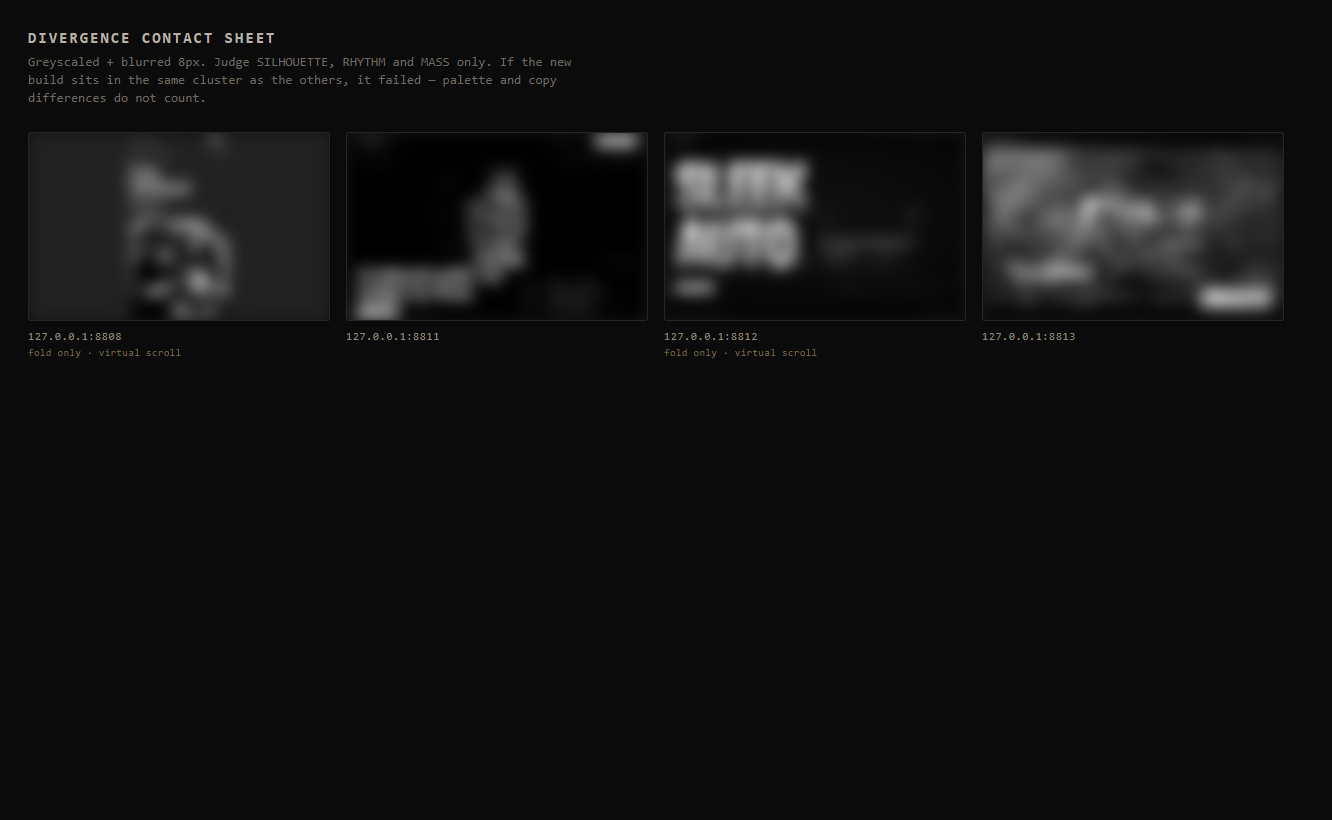
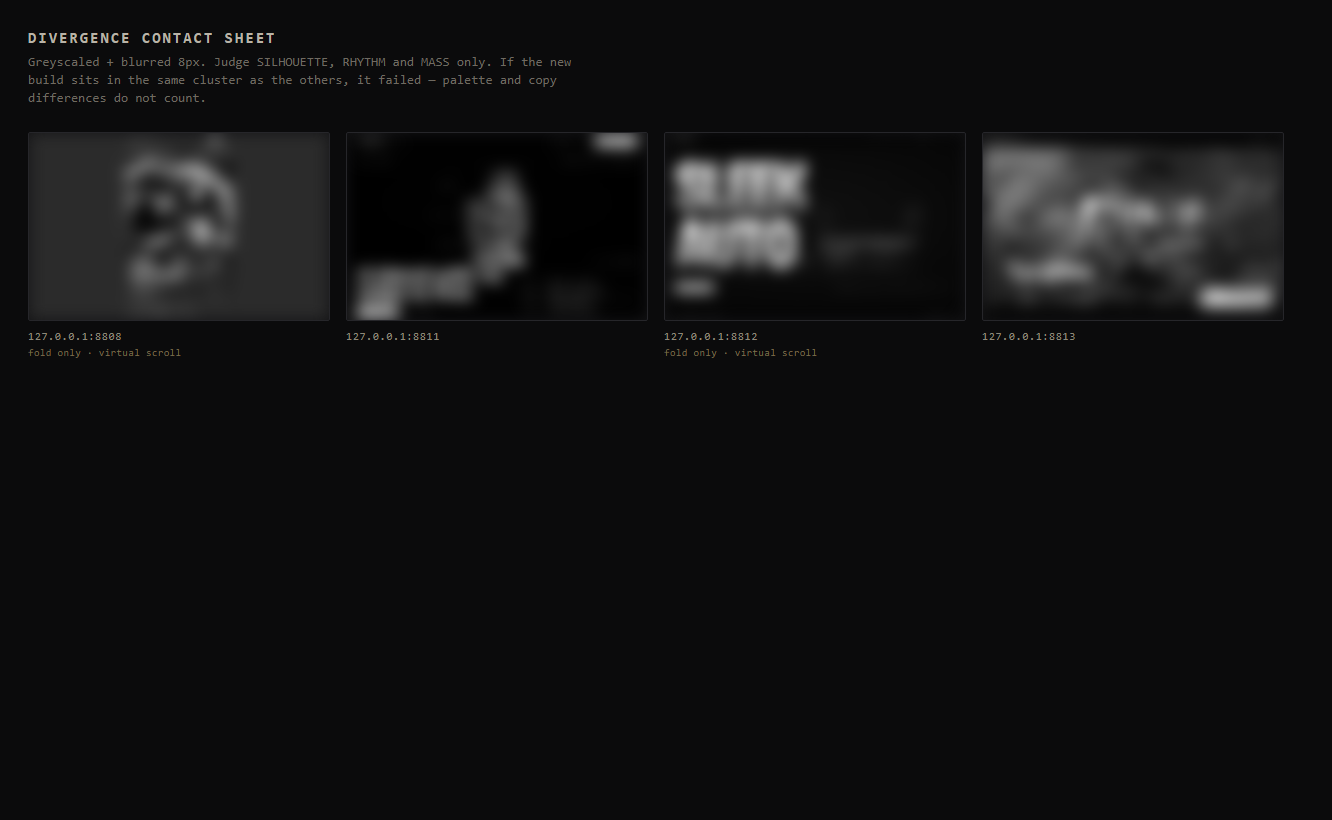
feat: full-bleed cover (name on the photo), tools section, ticker + 'confirmed clients' removed, cover paint fix
Claude-Session: https://claude.ai/code/session_017YWDE5JXoPXS3XVLwA3b7K

Changed region(s): [[0.0923, 0.1829, 0.1847, 0.3963]]

diff --git a/index.html b/index.html
@@ -51,19 +51,17 @@ a{color:inherit}
 /* ============ 1 · the name ============ */
 .hero{padding:22px 22px 0}
 .hero .k{display:flex;justify-content:space-between;padding-bottom:16px;border-bottom:1px solid var(--hair)}
-.name{margin-top:22px;font-weight:300;font-size:clamp(48px,14.5vw,66px);line-height:.98;letter-spacing:-.035em;font-variation-settings:"opsz" 96,"wdth" 90;text-wrap:balance}
+/* the cover — Study A's skeleton in the v2 register: the name sits ON the photo, light weight, cream */
+.cover{margin:14px -22px 0;position:relative;aspect-ratio:3/4;overflow:hidden;background:var(--carbon)}
+.cover img{position:absolute;inset:0;z-index:0;width:100%;height:100%;object-fit:cover;object-position:60% 30%;filter:contrast(1.06) saturate(.88) brightness(.9)}
+.cover:before{content:'';position:absolute;inset:0;z-index:1;pointer-events:none;background:linear-gradient(180deg,rgba(16,11,8,.28) 0%,rgba(16,11,8,0) 30%,rgba(16,11,8,.55) 62%,rgba(16,11,8,.96) 100%)}
+.lockup{position:absolute;left:22px;right:22px;bottom:44px;z-index:2}
+.name{font-weight:300;font-size:clamp(50px,15vw,68px);line-height:.96;letter-spacing:-.035em;font-variation-settings:"opsz" 96,"wdth" 90;text-wrap:balance;text-shadow:0 2px 24px rgba(10,7,5,.6)}
 .name span{display:block}
 .name span+span{font-weight:500;font-variation-settings:"opsz" 96,"wdth" 100}
-.quote{margin-top:14px;font-family:var(--serif);font-style:italic;font-weight:300;font-variation-settings:"opsz" 40;font-size:22px;line-height:1.3;max-width:22ch;text-wrap:balance}
-.plate{margin:18px 0 0;position:relative;aspect-ratio:4/5;border:1px solid var(--hair);overflow:hidden;background:var(--carbon);
-  box-shadow:0 18px 48px -18px rgba(0,0,0,.8)}
-.plate img{width:100%;height:100%;object-fit:cover;filter:contrast(1.06) saturate(.9) brightness(.94)}
-.plate:after{content:'';position:absolute;inset:0;pointer-events:none;background:radial-gradient(120% 95% at 50% 45%,transparent 55%,rgba(16,11,8,.85) 100%)}
-.plate .cap{position:absolute;left:12px;right:12px;bottom:12px;z-index:2;display:flex;justify-content:space-between}
-.stats{display:grid;grid-template-columns:repeat(3,auto);gap:0 28px;margin-top:24px;padding-top:18px;border-top:1px solid var(--hair)}
-.stat b{display:block;font-family:var(--mono);font-weight:500;font-size:20px;letter-spacing:-.01em;color:var(--cream);font-variant-numeric:tabular-nums}
-.stat i{display:block;margin-top:6px;font-style:normal;font-family:var(--mono);font-size:10px;letter-spacing:.14em;text-transform:uppercase;color:var(--smoke)}
-.actions{display:flex;gap:12px;align-items:center;padding:26px 0 8px}
+.quote{margin-top:12px;font-family:var(--serif);font-style:italic;font-weight:300;font-variation-settings:"opsz" 40;font-size:21px;line-height:1.3;max-width:20ch;text-wrap:balance;color:var(--cream)}
+.cover .cap{position:absolute;left:22px;right:22px;bottom:14px;z-index:2;display:flex;justify-content:space-between}
+.actions{display:flex;gap:12px;align-items:center;padding:18px 0 8px}
 .btn{position:relative;display:inline-flex;align-items:center;gap:12px;padding:15px 22px;border:1px solid var(--cream);border-radius:999px;color:var(--cream);text-decoration:none;font-family:var(--mono);font-weight:500;font-size:12px;letter-spacing:.12em;text-transform:uppercase;transition:background .3s var(--ease),color .3s var(--ease)}
 .btn:hover{background:var(--cream);color:var(--canvas)}
 .btn.ghost{border-color:var(--hair);color:var(--smoke)} .btn.ghost:hover{background:transparent;color:var(--cream);border-color:var(--cream)}
@@ -96,6 +94,16 @@ h2 em{font-style:normal;font-weight:500}
 .rail .num b{display:block;font-weight:500;color:var(--cream)}
 .rail .bar{width:1px;height:56px;background:var(--hair);position:relative}
 .rail .bar i{position:absolute;left:0;top:0;width:1px;height:0;background:var(--signal)}
+
+/* ============ 2b · the tools ============ */
+.tools{padding:56px 22px 0}
+.island.tall{aspect-ratio:3/4}
+.island.tall img{object-position:50% 40%}
+.spec{margin-top:22px;border-top:1px solid var(--hair)}
+.spec div{display:grid;grid-template-columns:96px 1fr;gap:14px;padding:13px 0;border-bottom:1px solid var(--hair);align-items:baseline}
+.spec dt{font-family:var(--mono);font-size:10px;letter-spacing:.14em;text-transform:uppercase;color:var(--smoke)}
+.spec dd{font-size:15px;letter-spacing:-.005em;color:var(--cream)}
+.spec dd i{font-style:normal;color:var(--signal)}
 
 /* ============ 3 · the chair ============ */
 .chair{padding:56px 22px 0}
@@ -164,18 +172,15 @@ footer{padding:26px 22px 34px;border-top:1px solid var(--hair);display:flex;just
 
 <!-- 1 · the name -->
 <section class="hero" id="top">
-  <div class="k mono"><span data-en="Barber · Houston, Texas" data-es="Barbero · Houston, Texas">Barber · Houston, Texas</span><span>4.9 <i>·</i> 54</span></div>
-  <h1 class="name" id="name"><span>Diego</span><span>Sandoval</span></h1>
-  <p class="quote">“Being a barber isn’t just cutting hair.”</p>
-  <figure class="plate">
+  <div class="k mono"><span data-en="Barber · Houston, TX" data-es="Barbero · Houston, TX">Barber · Houston, TX</span><span data-en="By appointment" data-es="Con cita">By appointment</span></div>
+  <figure class="cover">
     <img src="assets/hero-02.jpg" width="1080" height="1440" alt="Diego Sandoval finishing a cut in the shop, client in the chair" fetchpriority="high" decoding="async" id="heroimg">
+    <div class="lockup">
+      <h1 class="name" id="name"><span>Diego</span><span>Sandoval</span></h1>
+      <p class="quote">“Being a barber isn’t just cutting hair.”</p>
+    </div>
     <figcaption class="cap mono"><span><i>01</i>&nbsp; <span data-en="In the chair" data-es="En la silla">In the chair</span></span><span>Houston, TX</span></figcaption>
   </figure>
-  <div class="stats">
-    <div class="stat"><b>4.9</b><i data-en="on Booksy" data-es="en Booksy">on Booksy</i></div>
-    <div class="stat"><b>54</b><i data-en="confirmed clients" data-es="clientes confirmados">confirmed clients</i></div>
-    <div class="stat"><b>NW</b><i>Houston</i></div>
-  </div>
   <div class="actions">
     <a class="btn" href="#book"><span class="br tl"></span><span class="dot"></span><span data-en="See open times" data-es="Ver horarios">See open times</span><span class="br br2"></span></a>
     <a class="btn ghost" href="#work" data-en="The work" data-es="El trabajo">The work</a>
@@ -208,21 +213,33 @@ footer{padding:26px 22px 34px;border-top:1px solid var(--hair);display:flex;just
       <img class="pl" src="assets/g-03-barber-event-crowd-plate.jpg" width="600" height="750" alt="" loading="lazy" decoding="async">
       <img class="dev" src="assets/g-03-barber-event-crowd.jpg" width="900" height="1125" alt="Diego cutting on the floor at a Houston barber event" loading="lazy" decoding="async">
       <div class="lines"></div><figcaption class="cap"><span class="n">05</span><span class="t" data-en="On the floor, Houston" data-es="En el evento, Houston">On the floor, Houston</span><span class="w" data-en="Event" data-es="Evento">Event</span></figcaption></div></figure>
-    <aside class="rail" aria-hidden="true"><div class="in"><div class="num"><b id="railNum">01</b></div><div class="bar"><i id="railBar"></i></div><div class="num">05</div></div></aside>
   </div>
+</section>
+
+<!-- 2b · the tools — Study C's skeleton in the v2 register -->
+<section class="tools" id="tools">
+  <div class="sec mono"><span data-en="The tools" data-es="Las herramientas">The tools</span><span data-en="Black Ice FX · gold" data-es="Black Ice FX · dorado">Black Ice FX · gold</span></div>
+  <h2 data-en="The tools don’t make <em>the fade.</em>" data-es="Las herramientas no hacen <em>el fade.</em>">The tools don’t make <em>the fade.</em></h2>
+  <figure class="island tall"><img src="assets/tools-05.jpg" width="1080" height="1440" alt="Diego holding his gold Black Ice clipper toward the camera" loading="lazy" decoding="async"><figcaption class="cap mono"><span><i>Fig. 01</i>&nbsp; <span data-en="Black Ice FX, gold" data-es="Black Ice FX, dorado">Black Ice FX, gold</span></span><span data-en="Shot in shop" data-es="En el shop">Shot in shop</span></figcaption></figure>
+  <dl class="spec">
+    <div><dt data-en="Clipper" data-es="Máquina">Clipper</dt><dd>BaBylissPRO Black Ice FX</dd></div>
+    <div><dt data-en="Guards" data-es="Peines">Guards</dt><dd>#0 <i>·</i> #1 <i>·</i> #2 <i>·</i> #3 <i>·</i> <span data-en="freehand above" data-es="a mano arriba">freehand above</span></dd></div>
+    <div><dt data-en="Chair time" data-es="Tiempo">Chair time</dt><dd>45 min <span data-en="haircut" data-es="corte">haircut</span> <i>·</i> 60 min <span data-en="with design" data-es="con diseño">with design</span></dd></div>
+    <div><dt data-en="Specialty" data-es="Especialidad">Specialty</dt><dd data-en="Burst fades · tapers · freehand line work" data-es="Burst fades · tapers · líneas a mano">Burst fades · tapers · freehand line work</dd></div>
+  </dl>
 </section>
 
 <!-- 3 · the chair -->
 <section class="chair" id="chair">
-  <div class="sec mono"><span data-en="The chair" data-es="La silla">The chair</span><span>4.9 <i>·</i> 54</span></div>
+  <div class="sec mono"><span data-en="The chair" data-es="La silla">The chair</span><span data-en="From Booksy" data-es="De Booksy">From Booksy</span></div>
   <h2 data-en="What people <em>say.</em>" data-es="Lo que <em>dicen.</em>">What people <em>say.</em></h2>
   <figure class="island"><img src="assets/island-07.jpg" width="1080" height="1440" alt="Diego working over the shoulder in the room" loading="lazy" decoding="async"><figcaption class="cap mono"><span><i>02</i>&nbsp; <span data-en="In the room" data-es="En la sala">In the room</span></span><span>Houston, TX</span></figcaption></figure>
   <div class="quotes" id="quotes">
-    <span class="q">“The LeBron of cutting hair.”<span class="who">Jaspur <i>·</i> <span data-en="confirmed client" data-es="cliente confirmado">confirmed client</span></span></span>
-    <span class="q">“Best cuts in the Nawfwest.”<span class="who">Andrew <i>·</i> <span data-en="confirmed client" data-es="cliente confirmado">confirmed client</span></span></span>
-    <span class="q">“Bro, made me look younger.”<span class="who">Cesar <i>·</i> <span data-en="haircut &amp; beard" data-es="corte y barba">haircut &amp; beard</span></span></span>
+    <span class="q">“The LeBron of cutting hair.”<span class="who"><i>—</i> Jaspur</span></span>
+    <span class="q">“Best cuts in the Nawfwest.”<span class="who"><i>—</i> Andrew</span></span>
+    <span class="q">“Bro, made me look younger.”<span class="who"><i>—</i> Cesar</span></span>
   </div>
-  <p class="read" id="read">I booked my appointment for 6:00pm and got a 10 guard, mid fade. Diego did a really good job and he takes his time.<span class="who mono">German <i>·</i> <span data-en="confirmed client" data-es="cliente confirmado">confirmed client</span></span></p>
+  <p class="read" id="read">I booked my appointment for 6:00pm and got a 10 guard, mid fade. Diego did a really good job and he takes his time.<span class="who mono"><i>—</i> German</span></p>
 </section>
 
 <!-- 4 · the rate card -->
@@ -313,7 +330,7 @@ footer{padding:26px 22px 34px;border-top:1px solid var(--hair);display:flex;just
     function reveal () {
       if (reduce) return
       // visible at rest — the reveal only settles position, never hides content
-      gsap.from('.hero .quote, .hero .plate, .hero .stats, .hero .actions', { y: 16, duration: 1.1, ease: 'expo.out', stagger: .08, clearProps: 'transform' })
+      gsap.from('.hero .quote, .hero .plate, .hero .actions', { y: 16, duration: 1.1, ease: 'expo.out', stagger: .08, clearProps: 'transform' })
     }
     if (!reduce) {
       const w = { v: 300 }
@@ -331,11 +348,6 @@ footer{padding:26px 22px 34px;border-top:1px solid var(--hair);display:flex;just
         .to(dev, { opacity: 1, ease: 'none' }, .1)
         .to(t, { opacity: 1, y: 0, ease: 'none' }, .45)
     })
-    const num = document.getElementById('railNum'), bar = document.getElementById('railBar')
-    ScrollTrigger.create({ trigger: '#stack', start: 'top 60%', end: 'bottom 60%',
-      onUpdate (self) { const idx = Math.min(prints.length, Math.max(1, Math.ceil(self.progress * prints.length + 1e-4))); const label = String(idx).padStart(2, '0')
-        if (num.textContent !== label) { if (!reduce) gsap.fromTo(num, { yPercent: 100 }, { yPercent: 0, duration: .35, ease: 'expo.out' }); num.textContent = label }
-        bar.style.height = (self.progress * 100) + '%' } })
 
     /* ---- the chair: quote in the eye band is sharp; the long review lights word by word ---- */
     gsap.utils.toArray('.q').forEach(q => ScrollTrigger.create({ trigger: q, start: 'top 65%', end: 'bottom 35%', onToggle: s => q.classList.toggle('on', s.isActive) }))
